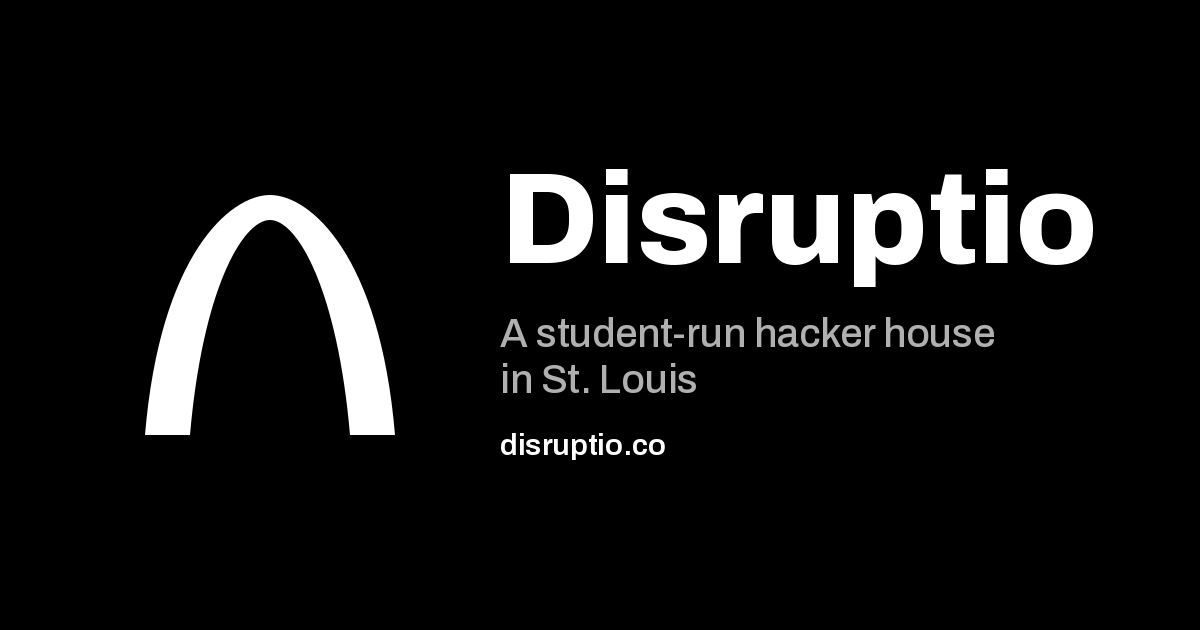
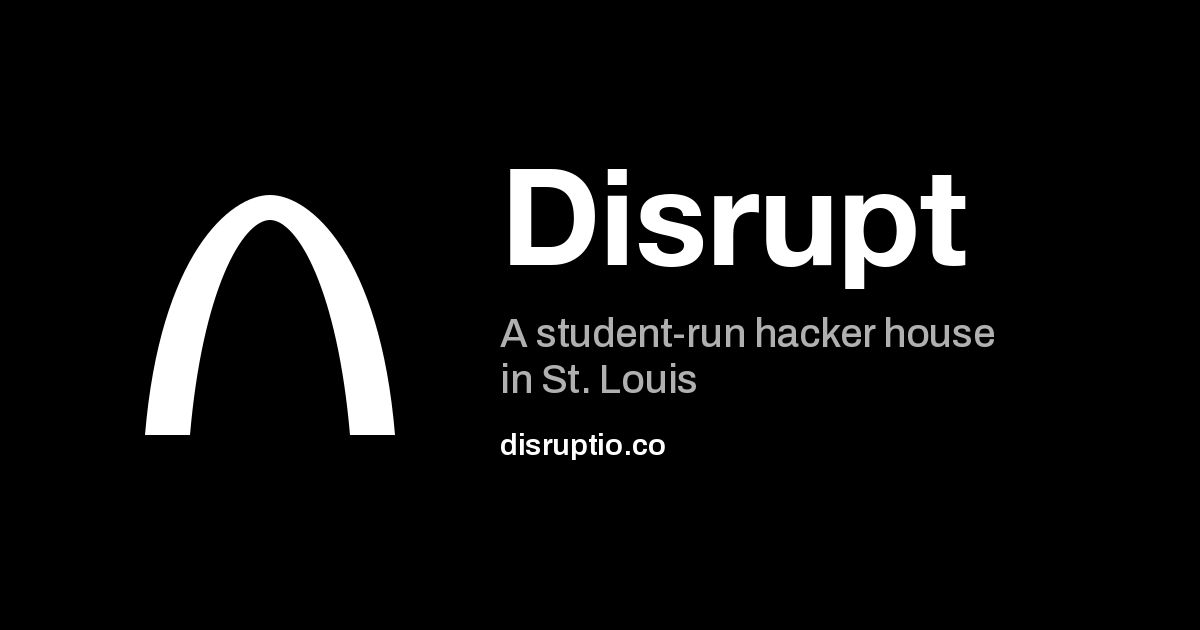
Rename Disruptio to Disrupt
Update the hacker house name in page titles, headings, copy, footers,
and link-preview metadata, and redraw the title in the link-preview
image. The disruptio.co domain and hello@disruptio.co email are
unchanged.

Changed region(s): [[0.4317, 0.2413, 0.925, 0.4524]]

diff --git a/index.html b/index.html
@@ -3,18 +3,18 @@
   <head>
     <meta charset="UTF-8" />
     <meta name="viewport" content="width=device-width, initial-scale=1.0" />
-    <title>Disruptio — Build in St. Louis</title>
+    <title>Disrupt — Build in St. Louis</title>
 
     <!-- Link previews (iMessage, GroupMe, Slack, LinkedIn, X) -->
-    <meta name="description" content="Disruptio is a student-run hacker house at WashU for people building startups, proposed as a Living Learning Community for Fall 2027. Hackathons and events are open to builders across St. Louis." />
+    <meta name="description" content="Disrupt is a student-run hacker house at WashU for people building startups, proposed as a Living Learning Community for Fall 2027. Hackathons and events are open to builders across St. Louis." />
     <meta property="og:type" content="website" />
     <meta property="og:url" content="https://disruptio.co" />
-    <meta property="og:title" content="Disruptio — Build in St. Louis" />
+    <meta property="og:title" content="Disrupt — Build in St. Louis" />
     <meta property="og:description" content="A student-run hacker house at WashU, proposed as a Living Learning Community for Fall 2027. Events are open to builders across St. Louis." />
     <meta property="og:image" content="https://disruptio.co/public/og.png" />
     <meta property="og:image:width" content="1200" />
     <meta property="og:image:height" content="630" />
-    <meta property="og:image:alt" content="Disruptio: a student-run hacker house in St. Louis" />
+    <meta property="og:image:alt" content="Disrupt: a student-run hacker house in St. Louis" />
     <meta name="twitter:card" content="summary_large_image" />
     <meta name="theme-color" content="#fafafa" />
     <link rel="icon" href="/public/favicon.svg" type="image/svg+xml" />
@@ -360,7 +360,7 @@
       <header>
         <!-- Arch mark: same path as public/logo-mark-*.svg; currentColor follows light/dark mode -->
         <svg class="logo-mark" viewBox="0 0 64 64" aria-hidden="true" focusable="false"><path d="M7 56 C10 20 24 8 32 8 C40 8 54 20 57 56 L48 56 C45.5 27 37.5 13 32 13 C26.5 13 18.5 27 16 56 Z" fill="currentColor"/></svg>
-        <h1>Disruptio</h1>
+        <h1>Disrupt</h1>
         <p class="subtitle">A student-run hacker house at WashU for people building startups. Live with other builders, learn from mentors who've done it, and make building fun.</p>
         <div class="hero-actions">
           <!-- TODO: replace with your interest form URL -->
@@ -371,7 +371,7 @@
 
       <section>
         <h2>What we're building</h2>
-        <p>Disruptio is a <span class="highlight">student-run initiative</span> with two parts: a house where WashU builders live together, and a community that reaches across campus and into St. Louis.</p>
+        <p>Disrupt is a <span class="highlight">student-run initiative</span> with two parts: a house where WashU builders live together, and a community that reaches across campus and into St. Louis.</p>
         <div class="card-grid">
           <div class="card">
             <h4>The house</h4>
@@ -410,7 +410,7 @@
         <div class="timeline">
           <div class="timeline-item">
             <div class="timeline-year">Pitched the Skandalaris Center</div>
-            <p>We pitched Disruptio to the Skandalaris Center and its National Council.</p>
+            <p>We pitched Disrupt to the Skandalaris Center and its National Council.</p>
           </div>
           <div class="timeline-item">
             <div class="timeline-year">Won the Mayfield WashU AI Hackathon</div>
@@ -530,7 +530,7 @@
           <p>A Living Learning Community (LLC) is a group of WashU students who live together in campus housing around a shared interest, with a faculty sponsor and programs through Residential Life. Ours is for students building startups.</p>
         </details>
         <details>
-          <summary>Do I have to live in the house to be part of Disruptio?</summary>
+          <summary>Do I have to live in the house to be part of Disrupt?</summary>
           <p>No. Hackathons, retreats, and mentorship are open to any WashU student, and many of our events are open to builders across St. Louis.</p>
         </details>
         <details>
@@ -547,7 +547,7 @@
         </details>
         <details>
           <summary>Is this affiliated with WashU?</summary>
-          <p>Disruptio was started by and is run by WashU students. We've proposed the house as a Living Learning Community through Residential Life, with a faculty sponsor from the Skandalaris Center. Approval is in progress.</p>
+          <p>Disrupt was started by and is run by WashU students. We've proposed the house as a Living Learning Community through Residential Life, with a faculty sponsor from the Skandalaris Center. Approval is in progress.</p>
         </details>
         <details>
           <summary>Can non-WashU students join?</summary>
@@ -570,7 +570,7 @@
       </section>
 
       <footer>
-        <p>Disruptio · St. Louis, MO</p>
+        <p>Disrupt · St. Louis, MO</p>
         <p><a href="/thesis.html">Investors and partners: read the full thesis</a></p>
         <!-- TODO: add contact email and socials -->
         <p><a href="mailto:hello@disruptio.co">hello@disruptio.co</a></p>

diff --git a/thesis.html b/thesis.html
@@ -3,18 +3,18 @@
   <head>
     <meta charset="UTF-8" />
     <meta name="viewport" content="width=device-width, initial-scale=1.0" />
-    <title>Disruptio — Full Thesis</title>
+    <title>Disrupt — Full Thesis</title>
 
     <!-- Link previews (iMessage, GroupMe, Slack, LinkedIn, X) -->
-    <meta name="description" content="Why St. Louis loses its builders, how innovation hubs actually form, and how Disruptio starts the flywheel: the full thesis for investors, sponsors, and partners." />
+    <meta name="description" content="Why St. Louis loses its builders, how innovation hubs actually form, and how Disrupt starts the flywheel: the full thesis for investors, sponsors, and partners." />
     <meta property="og:type" content="article" />
     <meta property="og:url" content="https://disruptio.co/thesis.html" />
-    <meta property="og:title" content="Disruptio — Full Thesis" />
+    <meta property="og:title" content="Disrupt — Full Thesis" />
     <meta property="og:description" content="Building the innovation ecosystem that keeps talent in St. Louis." />
     <meta property="og:image" content="https://disruptio.co/public/og.png" />
     <meta property="og:image:width" content="1200" />
     <meta property="og:image:height" content="630" />
-    <meta property="og:image:alt" content="Disruptio: a student-run hacker house in St. Louis" />
+    <meta property="og:image:alt" content="Disrupt: a student-run hacker house in St. Louis" />
     <meta name="twitter:card" content="summary_large_image" />
     <meta name="theme-color" content="#fafafa" />
     <link rel="icon" href="/public/favicon.svg" type="image/svg+xml" />
@@ -300,7 +300,7 @@
       <header>
         <!-- Arch mark: same path as public/logo-mark-*.svg; currentColor follows light/dark mode -->
         <svg class="logo-mark" viewBox="0 0 64 64" aria-hidden="true" focusable="false"><path d="M7 56 C10 20 24 8 32 8 C40 8 54 20 57 56 L48 56 C45.5 27 37.5 13 32 13 C26.5 13 18.5 27 16 56 Z" fill="currentColor"/></svg>
-        <h1>Disruptio</h1>
+        <h1>Disrupt</h1>
         <p class="subtitle">Building the innovation ecosystem that keeps talent in St. Louis</p>
       </header>
 
@@ -373,7 +373,7 @@
 
       <section>
         <h2>What we're building</h2>
-        <p>Disruptio is a student-run initiative with two parts. The first is a hacker house, proposed as a WashU Living Learning Community for Fall 2027 with a faculty sponsor from the Skandalaris Center, where about 20 student builders live together. The second is a community of hackathons, retreats, and events open to the whole campus and to St. Louis. Together, they empower WashU talent and the broader St. Louis community to build ventures locally:</p>
+        <p>Disrupt is a student-run initiative with two parts. The first is a hacker house, proposed as a WashU Living Learning Community for Fall 2027 with a faculty sponsor from the Skandalaris Center, where about 20 student builders live together. The second is a community of hackathons, retreats, and events open to the whole campus and to St. Louis. Together, they empower WashU talent and the broader St. Louis community to build ventures locally:</p>
         <ul class="offer-list">
           <li>Mentorship from founders who have built and scaled companies</li>
           <li>Resources and support to go from idea to traction</li>
@@ -392,7 +392,7 @@
       </section>
 
       <footer>
-        <p>Disruptio · St. Louis, MO</p>
+        <p>Disrupt · St. Louis, MO</p>
         <!-- TODO: add contact email and socials -->
         <p><a href="mailto:hello@disruptio.co">hello@disruptio.co</a></p>
       </footer>
